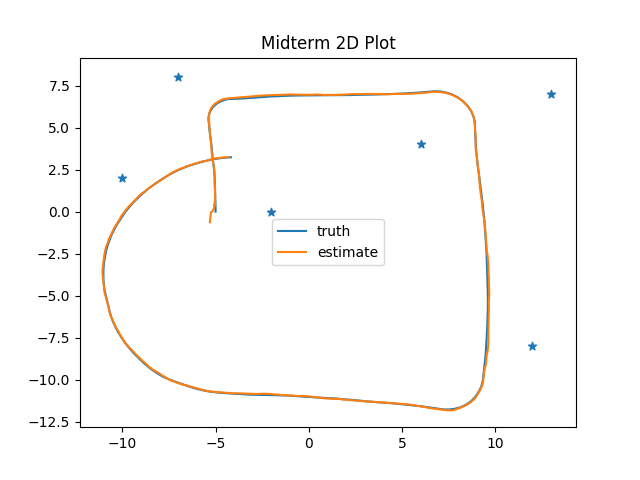
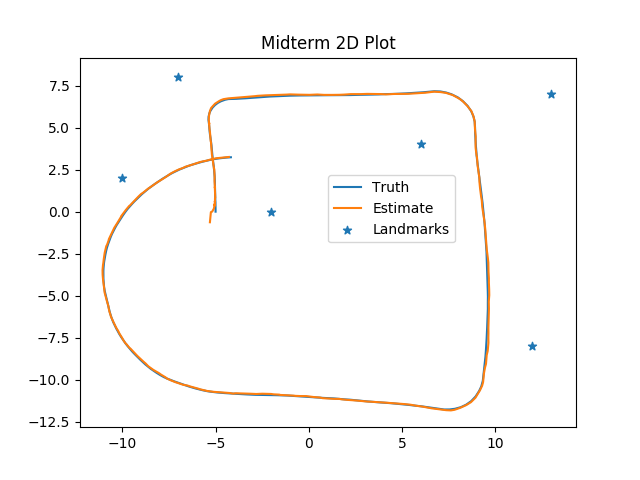
Revisiting grid map

Changed region(s): [[0.4375, 0.375, 0.7188, 0.5625], [0.5312, 0.375, 0.5625, 0.4375]]

diff --git a/grid_mapping/runMap.py b/grid_mapping/runMap.py
@@ -7,6 +7,9 @@ from IPython.core.debugger import set_trace
 
 from plotter import Animation
 
+import sys
+np.set_printoptions(threshold=sys.maxsize)
+
 class GridCell:
     def __init__(self, x, y):
         self.prob = 0
@@ -28,49 +31,85 @@ def draw(grid):
     plt.pause(0.001)
 
 
-def inverse_range_sensor(m,x,y,theta,z):
+def inverse_range_sensor(grid,indices,xs,ys,x,y,theta,z,thk):
 
-    alpha = 1
+    z[1][np.isnan(z[0])] = thk.flatten()[np.isnan(z[0])]
+    z[0][np.isnan(z[0])] = 1000000
+    alpha = 2
     beta = 5
     z_max = 150
 
-    r = np.sqrt((m.x-x)**2+(m.y-y)**2)
-    phi = np.arctan2(m.y-y,m.x-x)-theta
+    r = np.sqrt((xs[indices]-x)**2+(ys[indices]-y)**2)
+    phi = np.arctan2(ys[indices]-y,xs[indices]-x)-theta
     # k = np.argmin(np.abs(phi-data['thk']))
-    k = np.argmin(np.abs(phi-z[1]))
-    # set_trace()
+    z_range = np.repeat(z[0],phi.shape[0]).reshape((11,phi.shape[0]))
+    z_bearing = np.repeat(z[1],phi.shape[0]).reshape((11,phi.shape[0]))
+
+    bearing_pick = np.repeat(thk.flatten(),phi.shape[0]).reshape((11,phi.shape[0]))
+    k = np.argmin(np.abs(phi-bearing_pick),axis=0)
+    # if np.isnan(z).any():
 
     l0 = np.log(0.5/(1-0.5))
-    if r > np.min([z_max, z[:,k][0]+alpha/2.0]) or np.abs(phi-z[:,k][1]) > beta/2.0:
-        return l0
-    if z[:,k][0] < z_max and np.abs(r-z[:,k][0]) < alpha/2.0:
-        return np.log(0.7/(1-0.7))
-    if r <= z[:,k][0]:
-        return np.log(0.4/(1-0.4))
-    # set_trace()
-    return l0
 
-grid = []
-for i in range(100):
-    for j in range(100):
-        cell = GridCell((j+1)-0.5,(i+1)-0.5)
-        grid.append(cell)
+
+    z_r_sel  = z_range.T[np.arange(phi.shape[0]), k]
+    z_b_sel  = z_bearing.T[np.arange(phi.shape[0]), k]
+    # set_trace()
+
+    # if r > np.minimum([np.ones_like(phi.shape[0])*z_max, r_sel+alpha/2.0]) or np.abs(phi-b_sel) > beta/2.0:
+    #     return np.ones_like(grid[indices])*l0
+    # temp = r > np.minimum(np.ones_like(phi.shape[0])*z_max, r_sel+alpha/2.0)
+    f_ind = np.logical_and(r > np.minimum(np.ones_like(phi)*z_max, z_r_sel+alpha/2.0), np.abs(phi-z_b_sel) > beta/2.0)
+    # set_trace()
+    temp = grid[indices]
+    temp[f_ind] = l0
+    grid[indices]= temp
+
+    s_ind = np.logical_and(z_r_sel < np.ones_like(phi)*z_max, np.abs(r-z_r_sel) < alpha/2.0)
+    temp = grid[indices]
+    temp[s_ind] = np.log(0.8/(1-0.8))
+    grid[indices] = temp
+    # if temp[k][0] < z_max and np.abs(r-temo[k][0]) < alpha/2.0:
+    #     return np.log(0.7/(1-0.7))
+
+    # grid[indices][r <= r_sel] = np.log(0.4/(1-0.4))
+    temp = grid[indices]
+    temp[r <= z_r_sel] = np.log(0.4/(1-0.4))
+    grid[indices] = temp
+
+    print(grid[indices][f_ind])
+    print(np.isnan(z[0]))
+
+    # set_trace()
+    return grid[indices]
+
+    # if r <= temp[k][0]:
+    #     return np.log(0.4/(1-0.4))
+    # # set_trace()
+    # return np.ones_like(grid[indices])*l0
+
+num = 100
+
+grid = np.zeros((num,num))
+xs = np.repeat(np.linspace(0,99,num),num).reshape((num,num)).T
+ys = np.repeat(np.linspace(0,99,num),num).reshape((num,num))
 
 animation = Animation()
 
 for i in range(data['z'].shape[2]):
     print(i)
-    if i % 50 == 0:
-        animation.drawAll(data['X'][:,i], grid)
-        plt.pause(0.01)
-        # break
+    # if i % 50 == 0:
+    #     animation.drawAll(data['X'][:,i], grid)
+    #     plt.pause(0.01)
+    #     # break
     x,y,theta = data['X'][:,i]
-    for cell in grid:
-        phi = np.arctan2(cell.y-y,cell.x-x)-theta
-        if phi < np.pi/2.0 and phi > -np.pi/2.0:
-            # lp = np.log(cell.prob/(1-cell.prob)) + inverse_range_sensor(cell,x,y,theta,data['z'][:,:,i]) + 0.00001
-            # set_trace()
-            # cell.prob = np.exp(lp/(1+lp))
-            cell.prob = cell.prob + inverse_range_sensor(cell,x,y,theta,data['z'][:,:,i])
-animation.drawAll(data['X'][:,-1], grid)
+    phi = np.arctan2(ys-y,xs-x)-theta
+    indices = np.logical_and(phi < np.pi/2.0, phi > -np.pi/2.0)
+    grid[indices] = grid[indices] + inverse_range_sensor(grid, indices, xs, ys, x,y,theta ,data['z'][:,:,i], data['thk'])
+
+
+# animation.drawAll(data['X'][:,-1], grid)
+plt.imshow(np.exp(grid)/(1+np.exp(grid)), cmap='gray', vmin=0, vmax=1)
+# plt.pause(0.01)
 plt.show()
+set_trace()

diff --git a/grid_mapping/test.py b/grid_mapping/test.py
@@ -1,0 +1,83 @@
+import numpy as np
+import matplotlib.pyplot as plt
+from mpl_toolkits.mplot3d import Axes3D
+import scipy
+import scipy.io as sio
+from IPython.core.debugger import set_trace
+
+from plotter import Animation
+
+class GridCell:
+    def __init__(self, x, y):
+        self.prob = 0
+        self.x = x
+        self.y = y
+
+data = sio.loadmat('state_meas_data.mat')
+
+def draw(grid):
+    fig = plt.figure(1)
+    ax = fig.add_subplot(111)
+    cm = plt.cm.get_cmap('RdYlBu')
+    # for cell in grid:
+    # set_trace()
+    # lp = cell.prob
+    sc = plt.scatter([cell.x for cell in grid], [cell.y for cell in grid], c=[np.exp(cell.prob)/(1+np.exp(cell.prob)) for cell in grid],  s=35, cmap=cm)
+    plt.colorbar(sc)
+    # plt.show()
+    plt.pause(0.001)
+
+
+def inverse_range_sensor(m,x,y,theta,z,thk):
+    # if np.isnan(z).any():
+    #     set_trace()
+
+    alpha = 1
+    beta = 5
+    z_max = 150
+
+    r = np.sqrt((m.x-x)**2+(m.y-y)**2)
+    phi = np.arctan2(m.y-y,m.x-x)-theta
+    # k = np.argmin(np.abs(phi-data['thk']))
+    k = np.argmin(np.abs(phi-thk))
+
+    l0 = np.log(0.5/(1-0.5))
+    if np.isnan(z[0][k]):
+        # set_trace()
+        return l0
+
+    if r > np.min([z_max, z[:,k][0]+alpha/2.0]) or np.abs(phi-thk.flatten()[k]) > beta/2.0:
+        # set_trace()
+        return l0
+    if z[:,k][0] < z_max and np.abs(r-z[:,k][0]) < alpha/2.0:
+        return np.log(0.7/(1-0.7))
+    if r <= z[:,k][0]:
+        return np.log(0.4/(1-0.4))
+    # set_trace()
+    return l0
+
+grid = []
+for i in range(100):
+    for j in range(100):
+        cell = GridCell((j+1)-0.5,(i+1)-0.5)
+        grid.append(cell)
+
+animation = Animation()
+
+for i in range(data['z'].shape[2]):
+    print(i)
+    if i % 50 == 0:
+        animation.drawAll(data['X'][:,i], grid)
+        plt.pause(0.01)
+        # break
+    x,y,theta = data['X'][:,i]
+    for cell in grid:
+        phi = np.arctan2(cell.y-y,cell.x-x)-theta
+        if phi < np.pi/2.0 and phi > -np.pi/2.0:
+            # lp = np.log(cell.prob/(1-cell.prob)) + inverse_range_sensor(cell,x,y,theta,data['z'][:,:,i]) + 0.00001
+            # set_trace()
+            # cell.prob = np.exp(lp/(1+lp))
+            cell.prob = cell.prob + inverse_range_sensor(cell,x,y,theta,data['z'][:,:,i],data['thk'])
+animation.drawAll(data['X'][:,-1], grid)
+plt.show()
+set_trace()

diff --git a/eif/runSim.py b/eif/runSim.py
@@ -39,13 +39,14 @@ for i in range(data['t'].shape[1]):
     # plt.pause(0.001)
 
 
+set_trace()
 
 fig = plt.figure(3)
 plt.title('Midterm 2D Plot')
-plt.plot(data['X_tr'][0], data['X_tr'][1], label='truth')
-plt.plot(estimate[:,0], estimate[:,1], label='estimate')
-plt.scatter(data['m'][0], data['m'][1], marker='*')
-plt.legend()
+plt.plot(data['X_tr'][0], data['X_tr'][1], label='Truth')
+plt.plot(estimate[:,0], estimate[:,1], label='Estimate')
+plt.scatter(data['m'][0], data['m'][1], marker='*', label='Landmarks')
+plt.legend(loc=(0.5,0.5))
 plt.show()
 
 plt.pause(1000)
